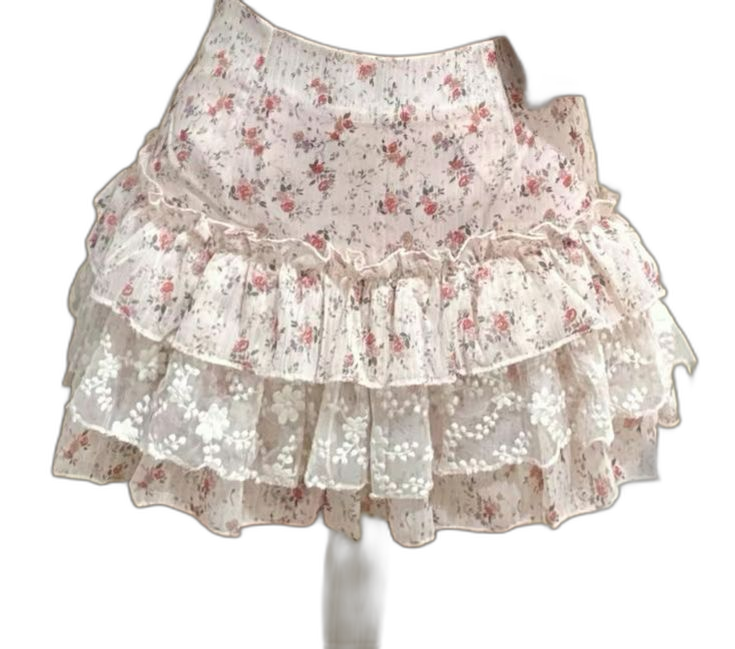
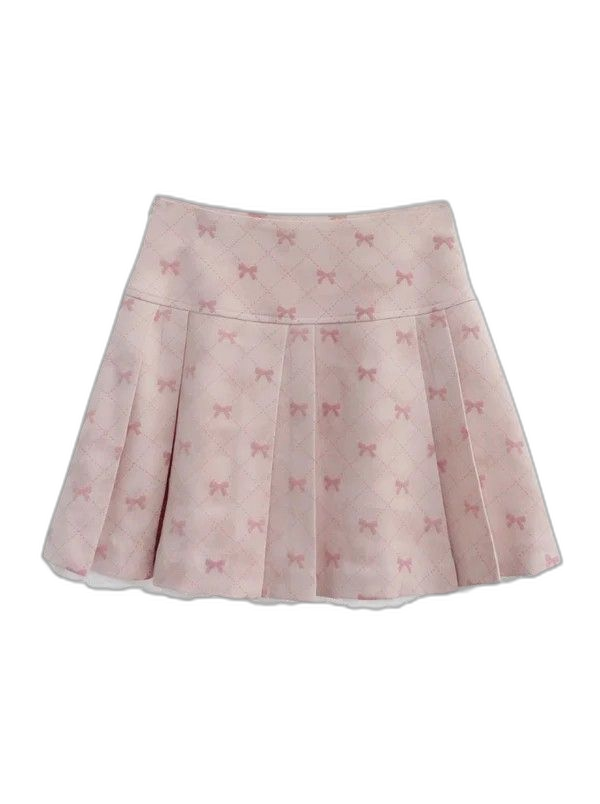
update boho chic tests

diff --git a/database/fashionclipFinetuned/test.py b/database/fashionclipFinetuned/test.py
@@ -90,8 +90,14 @@ def run_tests_roturas(image_paths, images):
 
 
 def run_tests_preferences(image_paths, images):
-    run_test(description="jean boho chic", image_paths=image_paths,
+    run_test(description="boho chic", image_paths=image_paths,
              images=images, has=True, clasification_img="bohochic")
+
+    run_test(description="pantalon boho chic", image_paths=image_paths,
+             images=images, has=True, clasification_img="pantalon bohochic")
+
+    run_test(description="pollera boho chic", image_paths=image_paths,
+             images=images, has=True, clasification_img="pollera bohochic")
 
     run_test(description="jean old money", image_paths=image_paths,
              images=images, has=True, clasification_img="oldmoney")
@@ -172,8 +178,8 @@ if __name__ == "__main__":
 
     input_folder = "images-testing-preferences"
     output_folder = "images-testing-preferences-nobg"
-    # run_tests(input_folder, output_folder, run_tests_preferences)
+    run_tests(input_folder, output_folder, run_tests_preferences)
 
     input_folder = "images_testing_general"
     output_folder = "images-testing-general-nobg"
-    run_tests(input_folder, output_folder, run_tests_general)
+    # run_tests(input_folder, output_folder, run_tests_general)